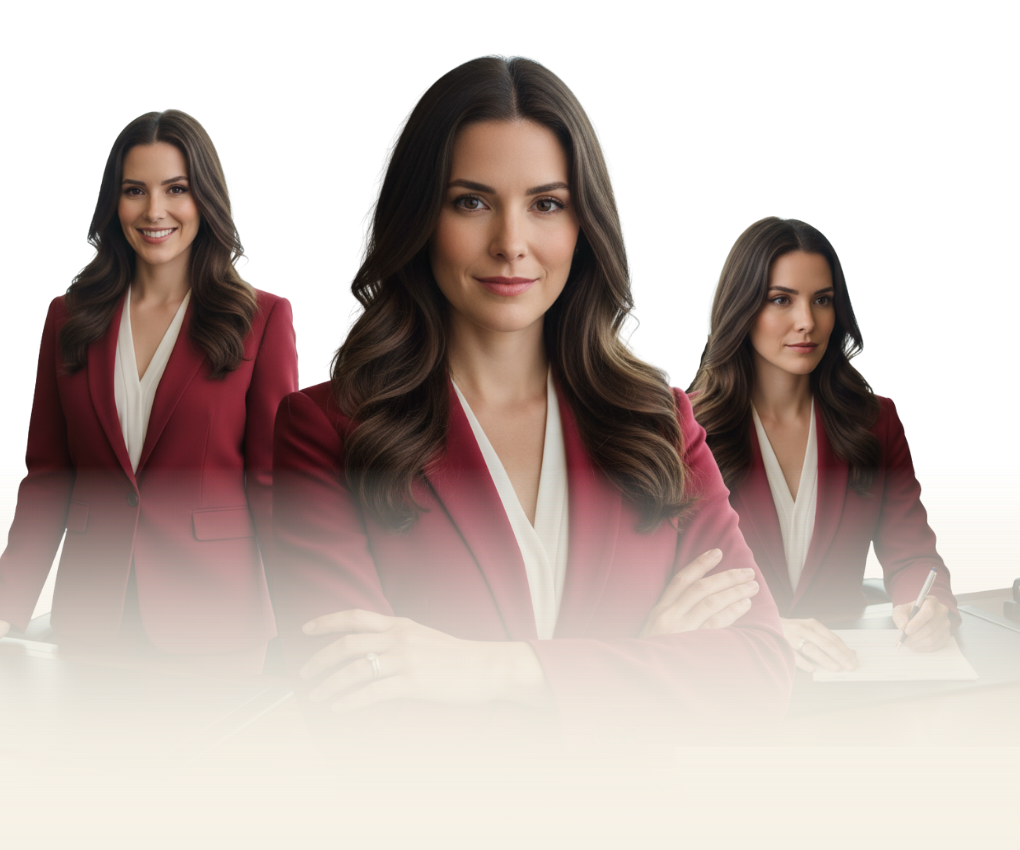
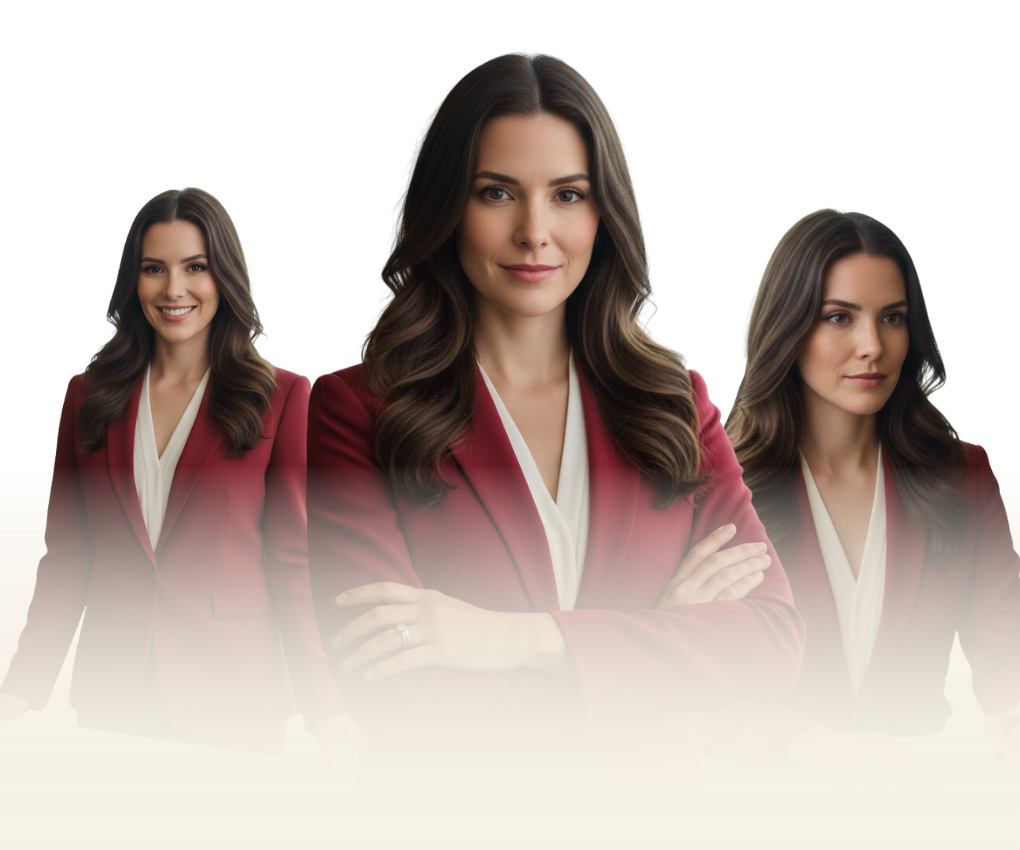
att

diff --git a/STYLES/mobile.css b/STYLES/mobile.css
@@ -11,13 +11,14 @@
 }
 
 
-@media(max-width:480px){
+@media (max-width:480px){
 
 .retangulo-topo {
 position: relative;
 background: rgba(240, 14, 14, 1);
 background: linear-gradient(74deg,rgba(240, 14, 14, 1) 100%, rgba(84, 3, 3, 1) 0%, );
 height: 20px;
+width: 100%;
 }
 
 
@@ -25,7 +26,6 @@ main {
   flex-direction: column-reverse;
   justify-content: center;
   align-items: center;
-  padding: 20px;
   background-size: cover;
   background-position: center;
   height: auto;
@@ -33,19 +33,11 @@ main {
 
 .imagem-principal{
   display: none;
+  
 }
 
 
- .imagem-mobile {
-    position: absolute;
-        display: block; /* A imagem passa a ser visível */
-        width: 100%;    /* Opcional: faz a imagem ocupar 100% da largura do contêiner */
-        height: auto;   /* Opcional: mantém a proporção da imagem */
-        background-size: cover; /* ESSENCIAL: Faz a imagem cobrir todo o elemento */
-        align-items: center;
-        justify-content: center;
-        
-    }
+ 
 
 .info-principal {
     position: relative;
@@ -53,7 +45,7 @@ main {
     flex-direction: column;
   padding: 0 5px;
   text-align: center;
-  margin-top: 200px;
+  
 }
 
 .advocacia-de-famlia {

diff --git a/index.html b/index.html
@@ -96,7 +96,7 @@
         <img id="img-3" src="ASSETS/img-3.png" alt="">
         <div class="aliada">
             
-            <div class="titulo-2">Sua Aliada Estrátegica</div>
+            <div class="titulo">Sua Aliada Estrátegica</div>
             <div class="paragrafo">"Com especialização em Direito de Família e Sucessões, dedico minha carreira 
                 a transformar momentos de incerteza em recomeços seguros. Acredito em uma advocacia que combina 
                 técnica jurídica apurada com um atendimento próximo e acolhedor."

diff --git a/STYLES/desktop.css b/STYLES/desktop.css
@@ -19,9 +19,10 @@
 
 .retangulo-topo {
 position: relative;
-background: rgba(240, 14, 14, 1);
-background: linear-gradient(74deg,rgba(240, 14, 14, 1) 100%, rgba(84, 3, 3, 1) 0%, );
+background: rgb(192, 24, 24);
+background: linear-gradient(90deg,rgba(240, 14, 14, 1) 100%, rgba(84, 3, 3, 1) 0%, );
 height: 20px;
+width: 100%;
 }
 
 main{
@@ -30,6 +31,7 @@ main{
     justify-content: space-between;
      width: 100%;
     height: 100vh;
+    
     
 }
 .imagem-principal{

diff --git a/STYLES/tablet.css b/STYLES/tablet.css
@@ -18,6 +18,7 @@ position: relative;
 background: rgba(240, 14, 14, 1);
 background: linear-gradient(74deg,rgba(240, 14, 14, 1) 100%, rgba(84, 3, 3, 1) 0%, );
 height: 20px;
+width: 100%;
 }
 
 
@@ -40,7 +41,7 @@ main {
         background-size: cover; /* ESSENCIAL: Faz a imagem cobrir todo o elemento */
         align-items: center;
         justify-content: center;
-        margin-left: 130px;
+       
         
     }
 
